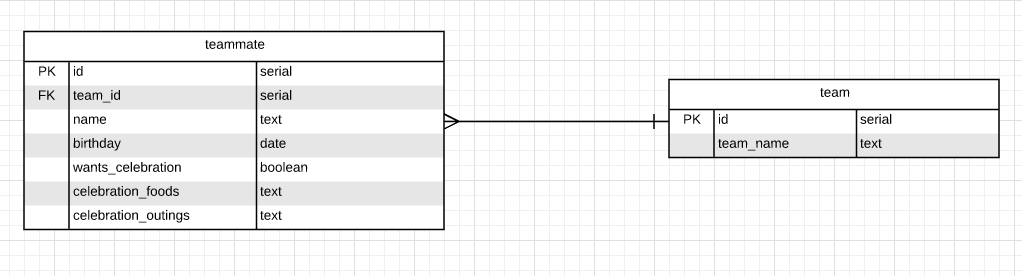
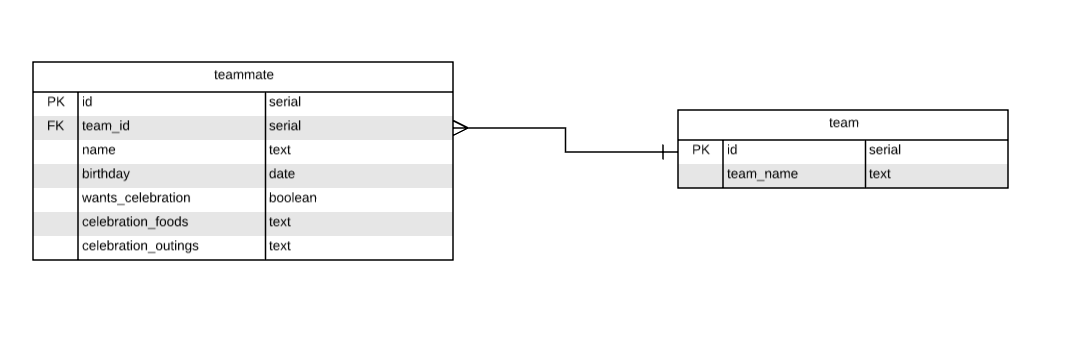
update erd

Changed region(s): [[0.0, 0.087, 1.0, 0.8406], [0.0, 0.8696, 1.0, 0.8986], [0.0, 0.0, 1.0, 0.029]]

diff --git a/migrations/20170727081536_create_teammate.js b/migrations/20170727081536_create_teammate.js
@@ -1,0 +1,17 @@
+exports.up = function(knex, Promise) {
+  return knex.schema.createTable('teammate', (table) => {
+    table.increments();
+    table.bigInteger('AddressId').unsigned().index().references('id').inTable('Address')
+
+    // table.('team_id'); foreign key that references team
+    table.text('name');
+    table.date('birthday');
+    table.boolean('wants_celebration');
+    table.text('celebration_foods');
+    table.text('celebration_outings');
+  })
+};
+
+exports.down = function(knex, Promise) {
+  return knex.schema.dropTable('teammate')
+};

diff --git a/save.js b/save.js
@@ -1,0 +1,15 @@
+exports.up = function(knex, Promise) {
+  return knex.schema.createTable('teammate', (table) => {
+    table.increments();
+    // table.('team_id'); foreign key that references team
+    table.text('name');
+    table.date('birthday');
+    table.boolean('wants_celebration');
+    table.text('celebration_foods');
+    table.text('celebration_outings');
+  })
+};
+
+exports.down = function(knex, Promise) {
+  return knex.schema.dropTable('teammate')
+};

diff --git a/migrations/20170727081202_create_team.js b/migrations/20170727081202_create_team.js
@@ -1,0 +1,10 @@
+exports.up = function(knex, Promise) {
+  return knex.schema.createTable('team', (table) => {
+    table.increments();
+    table.text('team_name');
+  });
+};
+
+exports.down = function(knex, Promise) {
+  return knex.schema.dropTable('team');
+};
